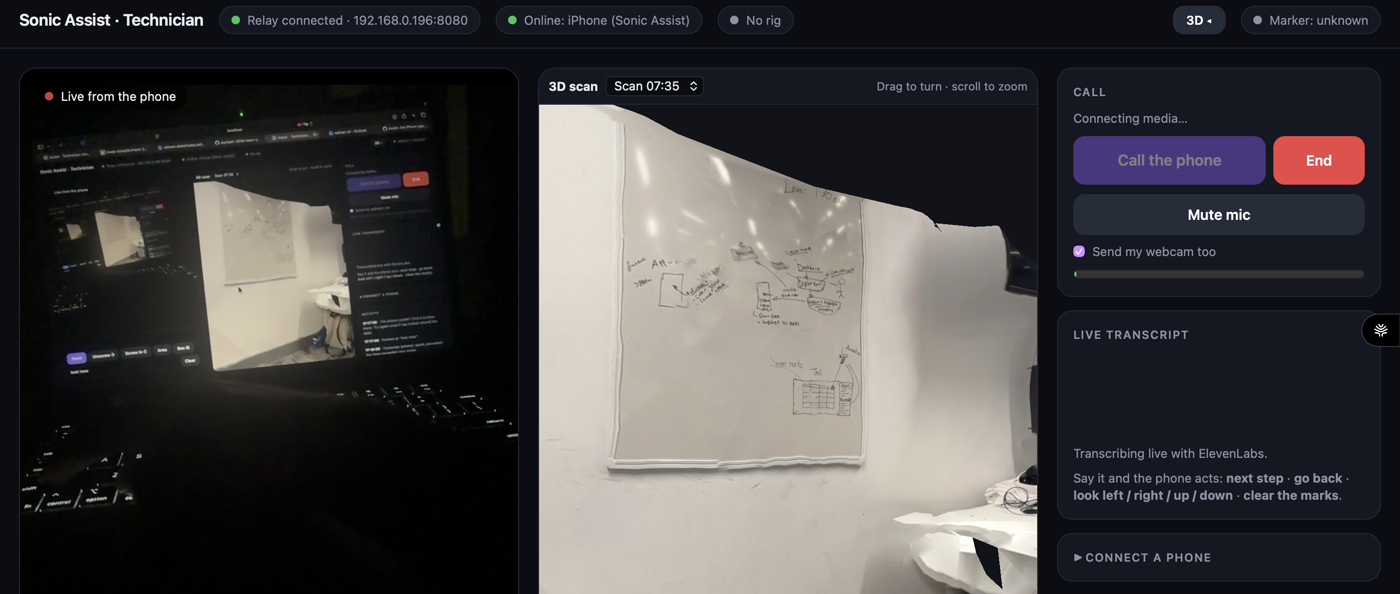
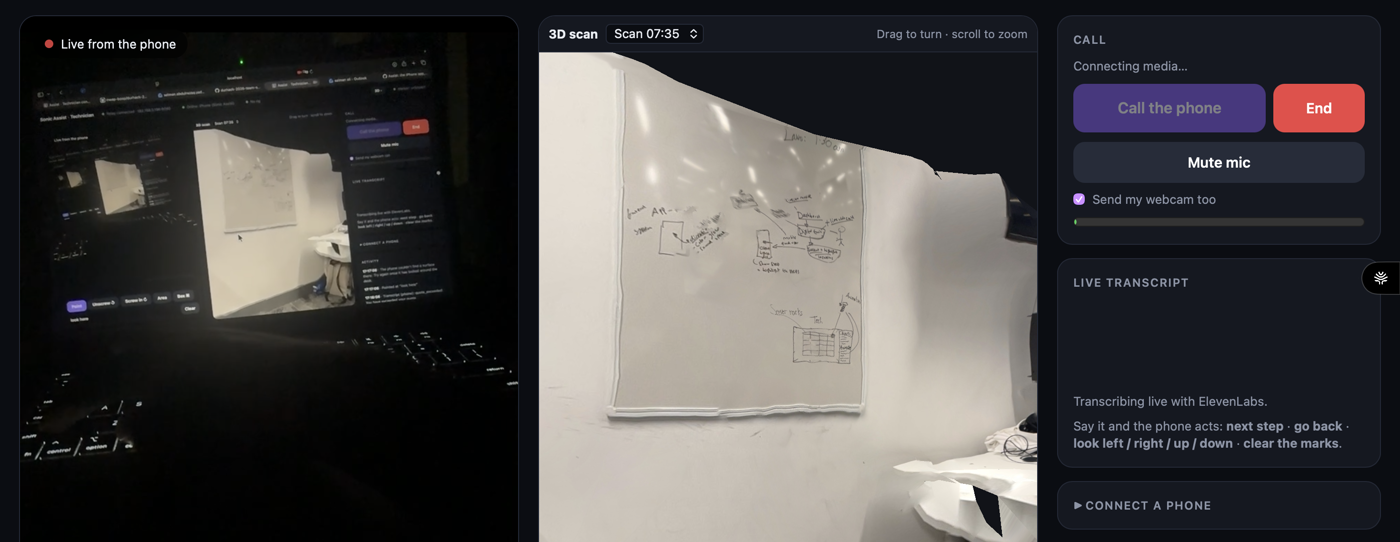
Show the console, dashboard and scan one at a time, and drop the points shot

diff --git a/README.md b/README.md
@@ -37,16 +37,14 @@ Real screenshots from our own tests on 15 and 16 November.
 
 <table>
   <tr>
-    <td width="25%"><img src="docs/media/phone-incoming.png" alt="The phone's home screen, 'What are you fixing?', with an incoming call from the expert at the top"></td>
-    <td width="25%"><img src="docs/media/phone-live.png" alt="The phone 2 minutes 39 seconds into a live call, its camera on the laptop running the console"></td>
-    <td width="25%"><img src="docs/media/phone-area.png" alt="The phone in a live call, with the expert's area drawn over the laptop's bottom cover"></td>
-    <td width="25%"><img src="docs/media/phone-points.png" alt="The phone in a live call, with the expert's numbered points on the laptop's screw holes"></td>
+    <td width="33%"><img src="docs/media/phone-incoming.png" alt="The phone's home screen, 'What are you fixing?', with an incoming call from the expert at the top"></td>
+    <td width="33%"><img src="docs/media/phone-live.png" alt="The phone 2 minutes 39 seconds into a live call, its camera on the laptop running the console"></td>
+    <td width="33%"><img src="docs/media/phone-area.png" alt="The phone in a live call, with the expert's area drawn over the laptop's bottom cover"></td>
   </tr>
   <tr>
     <td><sub><b>The expert calls.</b> The phone rings over the home screen (16 Nov).</sub></td>
     <td><sub><b>Live.</b> The expert sees this camera, here pointed at the console and its 3D scan (16 Nov).</sub></td>
     <td><sub><b>An Area</b> from the expert, on the laptop's bottom cover (15 Nov, an earlier style).</sub></td>
-    <td><sub><b>Points</b> from the expert, numbered on the screw holes (15 Nov).</sub></td>
   </tr>
 </table>
 
@@ -76,19 +74,24 @@ expert's hands in the room: their marks land on the real part, through the phone
   the step to both sides.
 - 📶 **It keeps going offline.** The phone holds the whole guide; its taps are sent when the network comes back.
 
-<table>
-  <tr>
-    <td width="50%"><img src="docs/media/console-call.png" alt="The technician console in a live call: the phone's camera on the left, the 3D scan beside it, the call controls and the live transcript on the right"></td>
-    <td width="50%"><img src="docs/media/dashboard.png" alt="The expert dashboard: the 3D scan of the laptop, and a four-step SSD guide with every step done and step 4 checked by the rig"></td>
-  </tr>
-  <tr>
-    <td><sub><b>Technician console in a live call</b> (16 Nov): the phone's camera, the 3D scan beside it, the call and the transcript.</sub></td>
-    <td><sub><b>Expert dashboard.</b> The four-step SSD guide on the scan: all done on the phone, and step 4 checked by the rig (✓).</sub></td>
-  </tr>
-</table>
+**Technician console**
 
 <p align="center">
-  <img src="docs/media/scan-3d.png" alt="A 3D scan of the laptop next to the printed marker" width="820"><br>
+  <img src="docs/media/console-call.png" alt="The technician console in a live call: the phone's camera on the left, the 3D scan beside it, the call controls and the live transcript on the right" width="100%"><br>
+  <sub>In a live call (16 Nov): the phone's camera, the 3D scan beside it, the call and the transcript.</sub>
+</p>
+
+**Expert dashboard**
+
+<p align="center">
+  <img src="docs/media/dashboard.png" alt="The expert dashboard: the 3D scan of the laptop, and a four-step SSD guide with every step done and step 4 checked by the rig" width="100%"><br>
+  <sub>The four-step SSD guide on the scan: all done on the phone, and step 4 checked by the rig (✓).</sub>
+</p>
+
+**3D scan**
+
+<p align="center">
+  <img src="docs/media/scan-3d.png" alt="A 3D scan of the laptop next to the printed marker" width="100%"><br>
   <sub>A 3D scan of the demo laptop and the printed marker beside it, made with Scaniverse on an iPhone.</sub>
 </p>
 
@@ -253,9 +256,6 @@ cd ios && xcodebuild test -scheme RemoteAssist \
   team's own DGX Spark.
 
 ## 🔭 Limits and next steps
-- A scan is a snapshot: if the hardware moves after scanning, the guide's positions are off.
-- The marker has to stay put, and accuracy drops further from it.
-- The rig can mistake a hand over the sticker for the part being gone.
 - The live call needs both devices on one network (no TURN server yet).
 
 ## 👋 Team
